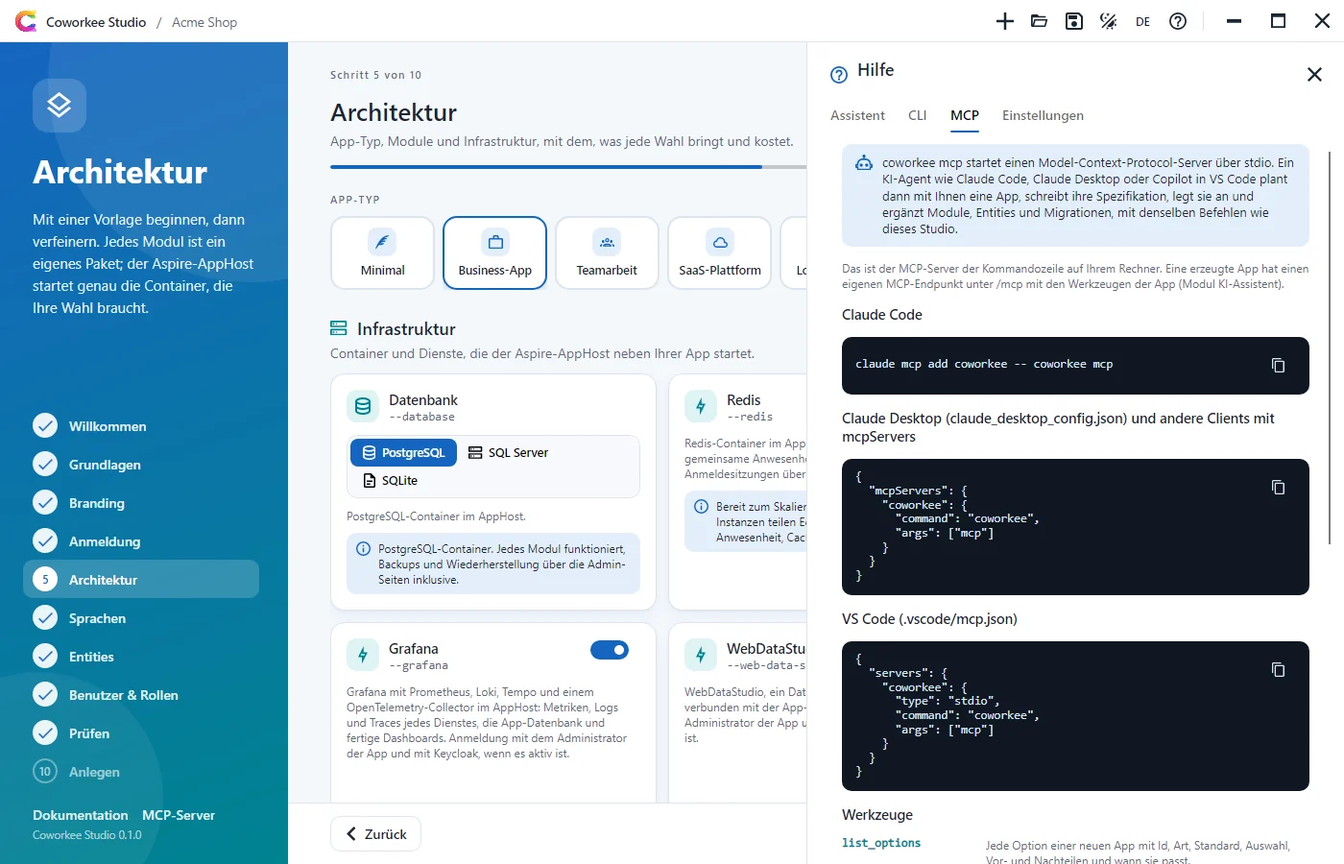
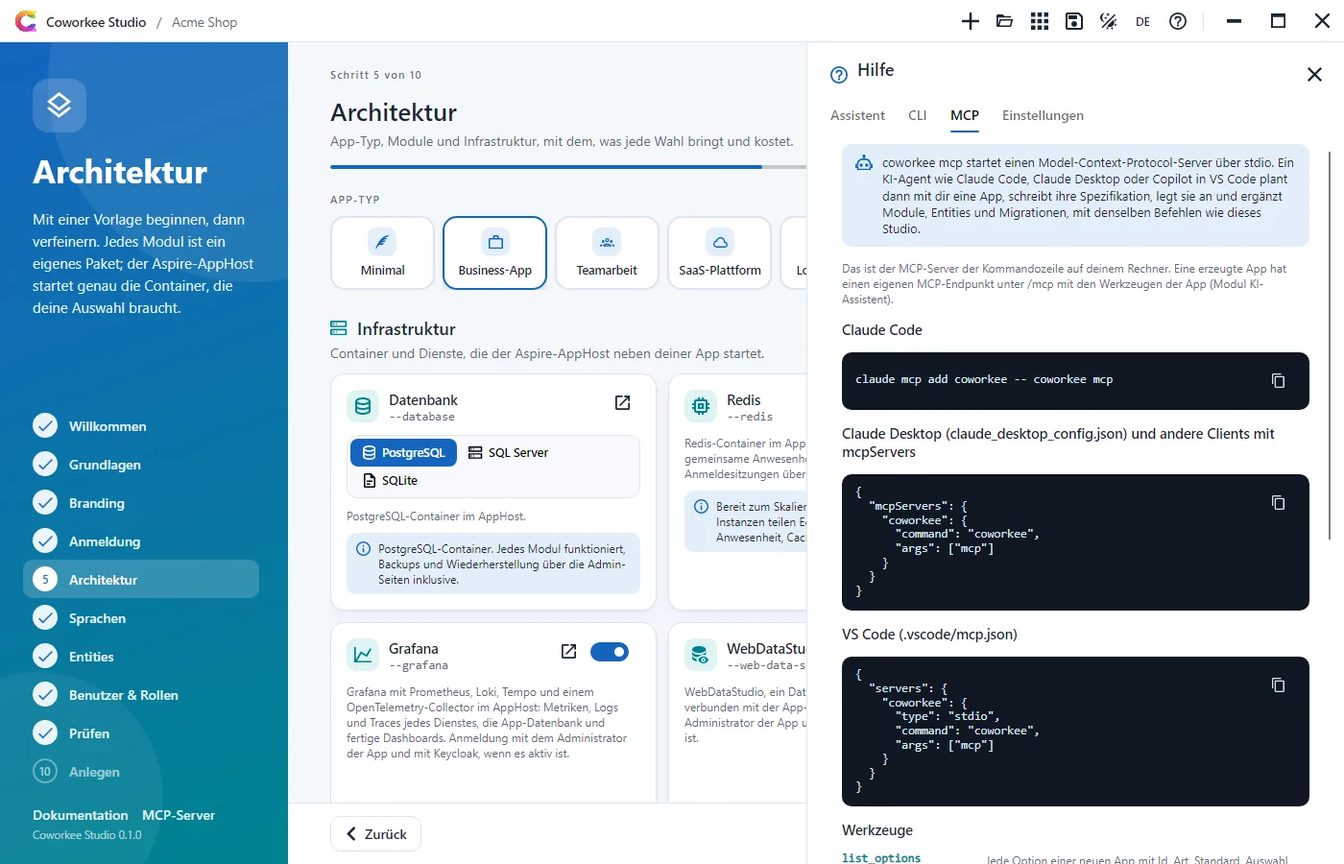
fix(studio): German texts say du; German screenshots regenerated

diff --git a/src/Coworkee.Studio/Localization/German.cs b/src/Coworkee.Studio/Localization/German.cs
@@ -31,10 +31,10 @@ public static class German
         ["Read the options of {0} from its files"] = "Optionen von {0} aus den Dateien gelesen",
         ["Show the changes"] = "Änderungen anzeigen",
         ["Apply the changes"] = "Änderungen übernehmen",
-        ["Updating your app"] = "Ihre App wird aktualisiert",
-        ["Your app is updated"] = "Ihre App ist aktualisiert",
+        ["Updating your app"] = "Deine App wird aktualisiert",
+        ["Your app is updated"] = "Deine App ist aktualisiert",
         ["Check the plan, then apply it"] = "Plan prüfen, dann übernehmen",
-        ["Some changes did not merge into your files. Merge each .rej file into the file next to it, then delete it:"] = "Einige Änderungen ließen sich nicht in Ihre Dateien mischen. Übernehmen Sie jede .rej-Datei in die Datei daneben und löschen Sie sie dann:",
+        ["Some changes did not merge into your files. Merge each .rej file into the file next to it, then delete it:"] = "Einige Änderungen ließen sich nicht in deine Dateien mischen. Übernimm jede .rej-Datei in die Datei daneben und lösche sie dann:",
         ["Opened {0}"] = "{0} geöffnet",
         ["Cannot open {0}: {1}"] = "{0} lässt sich nicht öffnen: {1}",
         ["Saved {0}"] = "{0} gespeichert",
@@ -47,32 +47,32 @@ public static class German
         // steps
         ["Welcome"] = "Willkommen",
         ["Configure a Coworkee app, see what every choice brings, and let the CLI create it."] = "Eine Coworkee-App konfigurieren, sehen, was jede Entscheidung bringt, und sie von der CLI anlegen lassen.",
-        ["Business apps without the boilerplate. Identity, permissions, an auth server, a Blazor shell, data tables, theming and an Aspire app host come as packages; your app only holds its own domain."] = "Geschäftsanwendungen ohne das Drumherum. Identity, Berechtigungen, Auth-Server, Blazor-Oberfläche, Datentabellen, Themes und ein Aspire-AppHost kommen als Pakete; Ihre App enthält nur ihre Fachlichkeit.",
+        ["Business apps without the boilerplate. Identity, permissions, an auth server, a Blazor shell, data tables, theming and an Aspire app host come as packages; your app only holds its own domain."] = "Geschäftsanwendungen ohne das Drumherum. Identity, Berechtigungen, Auth-Server, Blazor-Oberfläche, Datentabellen, Themes und ein Aspire-AppHost kommen als Pakete; deine App enthält nur ihre Fachlichkeit.",
         ["Basics"] = "Grundlagen",
         ["Name, title and where the solution goes."] = "Name, Titel und wohin die Solution kommt.",
-        ["The name becomes the prefix of every project and namespace, the title is what your users read in the browser, the app bar and on the sign-in pages."] = "Der Name wird Präfix jedes Projekts und Namespaces, den Titel lesen Ihre Benutzer im Browser, in der App-Leiste und auf den Anmeldeseiten.",
+        ["The name becomes the prefix of every project and namespace, the title is what your users read in the browser, the app bar and on the sign-in pages."] = "Der Name wird Präfix jedes Projekts und Namespaces, den Titel lesen deine Benutzer im Browser, in der App-Leiste und auf den Anmeldeseiten.",
         ["Branding"] = "Branding",
         ["Logo, theme and brand colors, previewed in light and dark."] = "Logo, Theme und Markenfarben, mit Vorschau in hell und dunkel.",
-        ["Seven built-in themes differ in more than colors: fonts, corner radius and density. With brand colors your app gets its own theme, based on the one you pick, as the default."] = "Sieben eingebaute Themes unterscheiden sich in mehr als Farben: Schrift, Eckenradius und Dichte. Mit Markenfarben bekommt Ihre App ein eigenes Theme auf Basis des gewählten als Standard.",
+        ["Seven built-in themes differ in more than colors: fonts, corner radius and density. With brand colors your app gets its own theme, based on the one you pick, as the default."] = "Sieben eingebaute Themes unterscheiden sich in mehr als Farben: Schrift, Eckenradius und Dichte. Mit Markenfarben bekommt deine App ein eigenes Theme auf Basis des gewählten als Standard.",
         ["Sign-in"] = "Anmeldung",
         ["How the sign-in, registration and password pages look."] = "Wie Anmeldung, Registrierung und Passwortseiten aussehen.",
-        ["The auth server brings sign-in, step-by-step registration, password reset and external logins. Pick a design now; administrators can switch it later on the Themes page."] = "Der Auth-Server bringt Anmeldung, Registrierung in Schritten, Passwort vergessen und externe Logins mit. Wählen Sie jetzt ein Design; Administratoren wechseln es später auf der Themes-Seite.",
+        ["The auth server brings sign-in, step-by-step registration, password reset and external logins. Pick a design now; administrators can switch it later on the Themes page."] = "Der Auth-Server bringt Anmeldung, Registrierung in Schritten, Passwort vergessen und externe Logins mit. Wähl jetzt ein Design; Administratoren wechseln es später auf der Themes-Seite.",
         ["Architecture"] = "Architektur",
         ["App type, modules and infrastructure, with what each choice brings and costs."] = "App-Typ, Module und Infrastruktur, mit dem, was jede Wahl bringt und kostet.",
-        ["Start from a preset, then fine-tune. Every module is a package of its own; the Aspire app host starts exactly the containers your choices need."] = "Mit einer Vorlage beginnen, dann verfeinern. Jedes Modul ist ein eigenes Paket; der Aspire-AppHost startet genau die Container, die Ihre Wahl braucht.",
+        ["Start from a preset, then fine-tune. Every module is a package of its own; the Aspire app host starts exactly the containers your choices need."] = "Mit einer Vorlage beginnen, dann verfeinern. Jedes Modul ist ein eigenes Paket; der Aspire-AppHost startet genau die Container, die deine Auswahl braucht.",
         ["Entities"] = "Entities",
         ["Feature modules with their entities; the CLI generates table, API, permissions and a page for each."] = "Feature-Module mit ihren Entities; die CLI erzeugt für jede Tabelle, API, Berechtigungen und eine Seite.",
-        ["Describe your domain now and start with working pages: every entity gets a table, an OData set, endpoints, validation, permissions and a Blazor page with create, edit and delete."] = "Beschreiben Sie Ihre Fachlichkeit jetzt und starten Sie mit fertigen Seiten: jede Entity bekommt Tabelle, OData-Set, Endpunkte, Validierung, Berechtigungen und eine Blazor-Seite mit Anlegen, Bearbeiten und Löschen.",
+        ["Describe your domain now and start with working pages: every entity gets a table, an OData set, endpoints, validation, permissions and a Blazor page with create, edit and delete."] = "Beschreib deine Fachlichkeit jetzt und starte mit fertigen Seiten: jede Entity bekommt Tabelle, OData-Set, Endpunkte, Validierung, Berechtigungen und eine Blazor-Seite mit Anlegen, Bearbeiten und Löschen.",
         ["Review"] = "Prüfen",
         ["Everything in one place: the spec, its validation and the CLI command that creates the app."] = "Alles an einem Ort: die Spezifikation, ihre Prüfung und der CLI-Befehl, der die App anlegt.",
-        ["The spec is the same JSON the CLI and the MCP server take. Save it next to your code, share it, or create the app right away."] = "Die Spezifikation ist dasselbe JSON, das CLI und MCP-Server nehmen. Speichern Sie es neben Ihrem Code, teilen Sie es oder legen Sie die App gleich an.",
+        ["The spec is the same JSON the CLI and the MCP server take. Save it next to your code, share it, or create the app right away."] = "Die Spezifikation ist dasselbe JSON, das CLI und MCP-Server nehmen. Speicher es neben deinem Code, teil es oder leg die App gleich an.",
         ["Create"] = "Anlegen",
-        ["The CLI installs the template, creates the solution, generates your modules and restores the packages."] = "Die CLI installiert die Vorlage, legt die Solution an, erzeugt Ihre Module und stellt die Pakete wieder her.",
+        ["The CLI installs the template, creates the solution, generates your modules and restores the packages."] = "Die CLI installiert die Vorlage, legt die Solution an, erzeugt deine Module und stellt die Pakete wieder her.",
         ["This takes a minute or two. Afterwards: open the folder, open it in your IDE, or run the app with the Aspire dashboard right away."] = "Das dauert ein, zwei Minuten. Danach: Ordner öffnen, in der IDE öffnen oder die App mit dem Aspire-Dashboard gleich starten.",
 
         // welcome
         ["COWORKEE STUDIO"] = "COWORKEE STUDIO",
-        ["Create your next business app"] = "Legen Sie Ihre nächste Geschäftsanwendung an",
+        ["Create your next business app"] = "Leg deine nächste Geschäftsanwendung an",
         ["Pick name, logo and colors, choose the modules and infrastructure, describe your entities, and the Coworkee CLI creates a solution with auth server, API, Blazor client, migrations, tests and an Aspire app host."] = "Name, Logo und Farben wählen, Module und Infrastruktur aussuchen, Entities beschreiben, und die Coworkee-CLI legt eine Solution mit Auth-Server, API, Blazor-Client, Migrationen, Tests und Aspire-AppHost an.",
         ["Start the wizard with the defaults of the template."] = "Den Assistenten mit den Standards der Vorlage starten.",
         ["Open a spec"] = "Spezifikation öffnen",
@@ -84,20 +84,20 @@ public static class German
         ["Presets and every module with pros, cons and the containers it adds."] = "Vorlagen und jedes Modul mit Vor- und Nachteilen und den Containern, die es mitbringt.",
         ["Modules, entities and properties; pages, API and permissions are generated."] = "Module, Entities und Eigenschaften; Seiten, API und Berechtigungen werden erzeugt.",
         ["Validation, the spec as JSON and the equivalent CLI command."] = "Prüfung, die Spezifikation als JSON und der passende CLI-Befehl.",
-        ["The CLI creates the app; open it in your IDE or run it with Aspire."] = "Die CLI legt die App an; öffnen Sie sie in der IDE oder starten Sie sie mit Aspire.",
+        ["The CLI creates the app; open it in your IDE or run it with Aspire."] = "Die CLI legt die App an; öffne sie in der IDE oder starte sie mit Aspire.",
         ["Prefer an AI agent? coworkee mcp runs the same generator as an MCP server for Claude, Copilot and others."] = "Lieber mit einem KI-Agenten? coworkee mcp stellt denselben Generator als MCP-Server für Claude, Copilot und andere bereit.",
-        ["How to connect"] = "So verbinden Sie ihn",
+        ["How to connect"] = "So verbindest du ihn",
 
         // basics
         ["App name"] = "Name der App",
         ["Title"] = "Titel",
         ["Location"] = "Speicherort",
         ["Browse"] = "Durchsuchen",
-        ["The folder exists and is not empty. The template refuses to overwrite files; pick another name or folder."] = "Der Ordner existiert und ist nicht leer. Die Vorlage überschreibt keine Dateien; wählen Sie einen anderen Namen oder Ordner.",
+        ["The folder exists and is not empty. The template refuses to overwrite files; pick another name or folder."] = "Der Ordner existiert und ist nicht leer. Die Vorlage überschreibt keine Dateien; wähl einen anderen Namen oder Ordner.",
         ["Naming tips"] = "Tipps zur Benennung",
         ["Short and technical: Shop, Crm, Portal. It becomes Shop.Api, Shop.Web and the namespace Shop.Sales."] = "Kurz und technisch: Shop, Crm, Portal. Daraus werden Shop.Api, Shop.Web und der Namespace Shop.Sales.",
         ["The title can have spaces and brand words: Acme Shop. It shows in the browser tab, the app bar, the sign-in pages and the Aspire dashboard."] = "Der Titel darf Leerzeichen und Markennamen enthalten: Acme Shop. Er erscheint im Browser-Tab, in der App-Leiste, auf den Anmeldeseiten und im Aspire-Dashboard.",
-        ["With brand colors the title also names the theme of your app, so it cannot be the name of a built-in theme."] = "Mit Markenfarben benennt der Titel auch das Theme Ihrer App und darf daher kein eingebautes Theme heißen.",
+        ["With brand colors the title also names the theme of your app, so it cannot be the name of a built-in theme."] = "Mit Markenfarben benennt der Titel auch das Theme deiner App und darf daher kein eingebautes Theme heißen.",
         ["The same on the command line"] = "Dasselbe auf der Kommandozeile",
         ["The app needs a name."] = "Die App braucht einen Namen.",
         ["Start with a letter, then letters or digits only; no spaces, dots or dashes."] = "Mit einem Buchstaben beginnen, dann nur Buchstaben oder Ziffern; keine Leerzeichen, Punkte oder Bindestriche.",
@@ -114,7 +114,7 @@ public static class German
         ["Theme"] = "Theme",
         ["Default theme of the installation; every user can still pick another one."] = "Standard-Theme der Installation; jeder Benutzer kann trotzdem ein anderes wählen.",
         ["Brand colors"] = "Markenfarben",
-        ["Your app gets its own theme, named like the title and based on the chosen one; contrast text is computed."] = "Ihre App bekommt ein eigenes Theme, benannt wie der Titel und basierend auf dem gewählten; die Kontrastfarbe für Text wird berechnet.",
+        ["Your app gets its own theme, named like the title and based on the chosen one; contrast text is computed."] = "Deine App bekommt ein eigenes Theme, benannt wie der Titel und basierend auf dem gewählten; die Kontrastfarbe für Text wird berechnet.",
         ["Primary"] = "Primär",
         ["Secondary"] = "Sekundär",
         ["Quick picks for the primary color"] = "Schnellauswahl für die Primärfarbe",
@@ -132,7 +132,7 @@ public static class German
         ["Choose"] = "Wählen",
         ["Choose an image or video"] = "Bild oder Video wählen",
         ["Remove"] = "Entfernen",
-        ["Plays muted in a loop. Keep it short: large videos slow the first sign-in."] = "Läuft stumm in Schleife. Halten Sie es kurz: große Videos bremsen die erste Anmeldung.",
+        ["Plays muted in a loop. Keep it short: large videos slow the first sign-in."] = "Läuft stumm in Schleife. Halt es kurz: große Videos bremsen die erste Anmeldung.",
         ["Side of the media"] = "Seite des Mediums",
         ["Match the composition of your image: the form takes the other side."] = "Passend zum Bildaufbau: das Formular nimmt die andere Seite.",
         ["Loading screen"] = "Ladebildschirm",
@@ -157,9 +157,9 @@ public static class German
         ["Modules"] = "Module",
         ["Feature modules: each is a NuGet package with its pages, permissions and tables."] = "Feature-Module: jedes ist ein NuGet-Paket mit seinen Seiten, Berechtigungen und Tabellen.",
         ["Infrastructure"] = "Infrastruktur",
-        ["Containers and services the Aspire app host starts next to your app."] = "Container und Dienste, die der Aspire-AppHost neben Ihrer App startet.",
+        ["Containers and services the Aspire app host starts next to your app."] = "Container und Dienste, die der Aspire-AppHost neben deiner App startet.",
         ["Code"] = "Code",
-        ["How the CLI generates the code of your entities."] = "Wie die CLI den Code Ihrer Entities erzeugt.",
+        ["How the CLI generates the code of your entities."] = "Wie die CLI den Code deiner Entities erzeugt.",
         ["Minimal"] = "Minimal",
         ["The shell with identity, permissions, settings and theming on Postgres. No Redis: fine while one instance runs. Add modules later."] = "Die Oberfläche mit Identity, Berechtigungen, Einstellungen und Themes auf Postgres. Ohne Redis: reicht, solange eine Instanz läuft. Module kommen später dazu.",
         ["Business app"] = "Business-App",
@@ -201,7 +201,7 @@ public static class German
         ["Remove module"] = "Modul entfernen",
         ["Entity"] = "Entity",
         ["No entities yet"] = "Noch keine Entities",
-        ["Optional: the app works without them. Add a module like Sales with entities like Customer and Order, and each gets its table, API, permissions and page."] = "Optional: die App funktioniert auch ohne. Fügen Sie ein Modul wie Sales mit Entities wie Customer und Order hinzu, und jede bekommt Tabelle, API, Berechtigungen und Seite.",
+        ["Optional: the app works without them. Add a module like Sales with entities like Customer and Order, and each gets its table, API, permissions and page."] = "Optional: die App funktioniert auch ohne. Füg ein Modul wie Sales mit Entities wie Customer und Order hinzu, und jede bekommt Tabelle, API, Berechtigungen und Seite.",
         ["Add a module"] = "Modul hinzufügen",
         ["Use the example"] = "Beispiel verwenden",
         ["Entity name (singular)"] = "Name der Entity (Singular)",
@@ -221,7 +221,7 @@ public static class German
         ["Remove property"] = "Eigenschaft entfernen",
         ["Remove entity"] = "Entity entfernen",
         ["GENERATED FOR THIS ENTITY"] = "FÜR DIESE ENTITY ERZEUGT",
-        ["Select an entity to see its routes, permissions and files."] = "Wählen Sie eine Entity, um Routen, Berechtigungen und Dateien zu sehen.",
+        ["Select an entity to see its routes, permissions and files."] = "Wähl eine Entity, um Routen, Berechtigungen und Dateien zu sehen.",
         ["Page"] = "Seite",
         ["API and OData"] = "API und OData",
         ["Permissions"] = "Berechtigungen",
@@ -262,7 +262,7 @@ public static class German
 
         // review
         ["The spec is valid"] = "Die Spezifikation ist gültig",
-        ["Checked with the same rules the CLI uses. Create the app or save the spec for later."] = "Geprüft mit denselben Regeln wie in der CLI. Legen Sie die App an oder speichern Sie die Spezifikation für später.",
+        ["Checked with the same rules the CLI uses. Create the app or save the spec for later."] = "Geprüft mit denselben Regeln wie in der CLI. Leg die App an oder speicher die Spezifikation für später.",
         ["Summary"] = "Zusammenfassung",
         ["Folder"] = "Ordner",
         ["Event bus"] = "Event-Bus",
@@ -279,14 +279,14 @@ public static class German
         // create
         ["Cancel"] = "Abbrechen",
         ["Run again"] = "Erneut ausführen",
-        ["Creating your app"] = "Ihre App wird angelegt",
-        ["Your app is ready"] = "Ihre App ist fertig",
+        ["Creating your app"] = "Deine App wird angelegt",
+        ["Your app is ready"] = "Deine App ist fertig",
         ["The spec has problems"] = "Die Spezifikation hat Probleme",
         ["The coworkee CLI was not found"] = "Die coworkee-CLI wurde nicht gefunden",
         ["Canceled"] = "Abgebrochen",
         ["Something went wrong"] = "Etwas ist schiefgegangen",
         ["Install the coworkee CLI"] = "coworkee-CLI installieren",
-        ["The Studio creates apps through the coworkee command line tool, a global .NET tool. Install it with one click, or point the Studio to a local build (coworkee.exe or Coworkee.Cli.dll)."] = "Das Studio legt Apps über das Kommandozeilen-Tool coworkee an, ein globales .NET-Tool. Installieren Sie es mit einem Klick oder zeigen Sie dem Studio einen lokalen Build (coworkee.exe oder Coworkee.Cli.dll).",
+        ["The Studio creates apps through the coworkee command line tool, a global .NET tool. Install it with one click, or point the Studio to a local build (coworkee.exe or Coworkee.Cli.dll)."] = "Das Studio legt Apps über das Kommandozeilen-Tool coworkee an, ein globales .NET-Tool. Installier es mit einem Klick oder zeig dem Studio einen lokalen Build (coworkee.exe oder Coworkee.Cli.dll).",
         ["Install and continue"] = "Installieren und weiter",
         ["Choose a local CLI"] = "Lokale CLI wählen",
         ["Settings"] = "Einstellungen",
@@ -304,14 +304,14 @@ public static class German
         ["Help"] = "Hilfe",
         ["Close (F1)"] = "Schließen (F1)",
         ["Wizard"] = "Assistent",
-        ["Coworkee Studio writes an app spec, the JSON the coworkee CLI takes, and lets the CLI create the app. Every page changes one part of the spec; the panel on the left shows where you are and takes you back to any page you have seen."] = "Coworkee Studio schreibt eine App-Spezifikation, das JSON der coworkee-CLI, und lässt die CLI die App anlegen. Jede Seite ändert einen Teil der Spezifikation; das Panel links zeigt, wo Sie sind, und führt zu jeder Seite zurück, die Sie schon gesehen haben.",
+        ["Coworkee Studio writes an app spec, the JSON the coworkee CLI takes, and lets the CLI create the app. Every page changes one part of the spec; the panel on the left shows where you are and takes you back to any page you have seen."] = "Coworkee Studio schreibt eine App-Spezifikation, das JSON der coworkee-CLI, und lässt die CLI die App anlegen. Jede Seite ändert einen Teil der Spezifikation; das Panel links zeigt, wo du bist, und führt zu jeder Seite zurück, die du schon gesehen hast.",
         ["Keyboard"] = "Tastatur",
         ["Start options"] = "Startoptionen",
         ["Coworkee Studio in the documentation"] = "Coworkee Studio in der Dokumentation",
         ["The Studio runs coworkee spec validate and coworkee new --spec. Everything it does works in a terminal as well:"] = "Das Studio ruft coworkee spec validate und coworkee new --spec auf. Alles, was es tut, geht auch im Terminal:",
         ["All commands and switches"] = "Alle Befehle und Schalter",
-        ["coworkee mcp runs a Model Context Protocol server over stdio. An AI agent such as Claude Code, Claude Desktop or Copilot in VS Code can then plan an app with you, write its spec, create it and add modules, entities and migrations, with the same commands as this Studio."] = "coworkee mcp startet einen Model-Context-Protocol-Server über stdio. Ein KI-Agent wie Claude Code, Claude Desktop oder Copilot in VS Code plant dann mit Ihnen eine App, schreibt ihre Spezifikation, legt sie an und ergänzt Module, Entities und Migrationen, mit denselben Befehlen wie dieses Studio.",
-        ["This is the MCP server of the command line on your machine. A generated app has its own MCP endpoint under /mcp with the tools of the app (AI assistant module)."] = "Das ist der MCP-Server der Kommandozeile auf Ihrem Rechner. Eine erzeugte App hat einen eigenen MCP-Endpunkt unter /mcp mit den Werkzeugen der App (Modul KI-Assistent).",
+        ["coworkee mcp runs a Model Context Protocol server over stdio. An AI agent such as Claude Code, Claude Desktop or Copilot in VS Code can then plan an app with you, write its spec, create it and add modules, entities and migrations, with the same commands as this Studio."] = "coworkee mcp startet einen Model-Context-Protocol-Server über stdio. Ein KI-Agent wie Claude Code, Claude Desktop oder Copilot in VS Code plant dann mit dir eine App, schreibt ihre Spezifikation, legt sie an und ergänzt Module, Entities und Migrationen, mit denselben Befehlen wie dieses Studio.",
+        ["This is the MCP server of the command line on your machine. A generated app has its own MCP endpoint under /mcp with the tools of the app (AI assistant module)."] = "Das ist der MCP-Server der Kommandozeile auf deinem Rechner. Eine erzeugte App hat einen eigenen MCP-Endpunkt unter /mcp mit den Werkzeugen der App (Modul KI-Assistent).",
         ["Claude Desktop (claude_desktop_config.json) and other clients with mcpServers"] = "Claude Desktop (claude_desktop_config.json) und andere Clients mit mcpServers",
         ["Tools"] = "Werkzeuge",
         ["Try it"] = "Ausprobieren",
@@ -373,7 +373,7 @@ public static class German
         ["To learn the patterns or to demo the library; switch off for a real app."] = "Zum Lernen der Muster oder für Demos; für eine echte App ausschalten.",
         ["Working examples of every pattern"] = "Lauffähige Beispiele für jedes Muster",
         ["Demo data after the first start"] = "Demodaten nach dem ersten Start",
-        ["Code you delete later"] = "Code, den Sie später löschen",
+        ["Code you delete later"] = "Code, den du später löschst",
         ["Test projects"] = "Testprojekte",
         ["API, migration, app host and page tests."] = "Tests für API, Migrationen, AppHost und Seiten.",
         ["Almost always; leave out only for throw-away prototypes."] = "Fast immer; nur bei Wegwerf-Prototypen weglassen.",
@@ -468,7 +468,7 @@ public static class German
         ["Elsa Studio is a separate app to run"] = "Elsa Studio ist eine eigene App, die laufen muss",
         ["Extended attributes"] = "Erweiterte Attribute",
         ["Free key/value attributes for any entity without schema changes (the Documents sample brings it anyway)."] = "Freie Schlüssel-Wert-Attribute für jede Entity ohne Schemaänderung (das Documents-Beispiel bringt es ohnehin mit).",
-        ["When users need fields you cannot foresee."] = "Wenn Benutzer Felder brauchen, die Sie nicht vorhersehen können.",
+        ["When users need fields you cannot foresee."] = "Wenn Benutzer Felder brauchen, die du nicht vorhersehen kannst.",
         ["No migration per field"] = "Keine Migration pro Feld",
         ["Values are not typed columns"] = "Werte sind keine typisierten Spalten",
         ["Search"] = "Suche",
@@ -506,7 +506,7 @@ public static class German
         ["Azure Blob Storage, Azurite emulator in the app host."] = "Azure Blob Storage, Azurite-Emulator im AppHost.",
         ["AI provider"] = "KI-Anbieter",
         ["Model provider of the assistant (with the AI assistant); changeable later on the AI page of the app."] = "Modellanbieter des Assistenten (mit dem KI-Assistenten); später auf der KI-Seite der App änderbar.",
-        ["Anthropic, OpenAI, Gemini or Mistral with a key; OpenRouter for many models behind one key; Ollama or LM Studio to run locally without a key; Azure OpenAI when data must stay in your Azure tenant; openAICompatible for gateways and vLLM."] = "Anthropic, OpenAI, Gemini oder Mistral mit Schlüssel; OpenRouter für viele Modelle hinter einem Schlüssel; Ollama oder LM Studio lokal ohne Schlüssel; Azure OpenAI, wenn Daten in Ihrem Azure-Mandanten bleiben müssen; openAICompatible für Gateways und vLLM.",
+        ["Anthropic, OpenAI, Gemini or Mistral with a key; OpenRouter for many models behind one key; Ollama or LM Studio to run locally without a key; Azure OpenAI when data must stay in your Azure tenant; openAICompatible for gateways and vLLM."] = "Anthropic, OpenAI, Gemini oder Mistral mit Schlüssel; OpenRouter für viele Modelle hinter einem Schlüssel; Ollama oder LM Studio lokal ohne Schlüssel; Azure OpenAI, wenn Daten in deinem Azure-Mandanten bleiben müssen; openAICompatible für Gateways und vLLM.",
         ["Same tools and audit with every provider"] = "Dieselben Werkzeuge und dasselbe Audit mit jedem Anbieter",
         ["Ollama runs offline in a container"] = "Ollama läuft offline in einem Container",
         ["Small local models call tools less reliably"] = "Kleine lokale Modelle rufen Werkzeuge weniger zuverlässig auf",
@@ -520,7 +520,7 @@ public static class German
         ["Without it everything stays in each process, fine for a single instance"] = "Ohne Redis bleibt alles im jeweiligen Prozess, ausreichend für eine einzelne Instanz",
         ["Grafana"] = "Grafana",
         ["Grafana with Prometheus, Loki, Tempo and an OpenTelemetry collector in the app host: metrics, logs and traces of every service, the app database and ready dashboards. Sign-in with the app's administrator, and Keycloak when it is on."] = "Grafana mit Prometheus, Loki, Tempo und einem OpenTelemetry-Collector im AppHost: Metriken, Logs und Traces jedes Dienstes, die App-Datenbank und fertige Dashboards. Anmeldung mit dem Administrator der App und mit Keycloak, wenn es aktiv ist.",
-        ["Whenever you want to see how the app behaves: request rates, errors, latency, runtime, database and users at a glance."] = "Immer dann, wenn Sie sehen wollen, wie sich die App verhält: Anfragen, Fehler, Latenz, Laufzeit, Datenbank und Benutzer auf einen Blick.",
+        ["Whenever you want to see how the app behaves: request rates, errors, latency, runtime, database and users at a glance."] = "Immer dann, wenn du sehen willst, wie sich die App verhält: Anfragen, Fehler, Latenz, Laufzeit, Datenbank und Benutzer auf einen Blick.",
         ["Dashboards for requests, runtime, database and the app's data from the first start"] = "Dashboards für Anfragen, Laufzeit, Datenbank und die Daten der App ab dem ersten Start",
         ["Metrics, logs and traces side by side and kept across sessions of the Aspire dashboard"] = "Metriken, Logs und Traces nebeneinander und über Sitzungen des Aspire-Dashboards hinweg erhalten",
         ["Same sign-in as the app"] = "Dieselbe Anmeldung wie in der App",
@@ -528,7 +528,7 @@ public static class German
         ["Development only: a deployment brings its own monitoring"] = "Nur für die Entwicklung: ein Deployment bringt sein eigenes Monitoring mit",
         ["WebDataStudio"] = "WebDataStudio",
         ["WebDataStudio, a database studio in the browser, connected to the app database. Sign-in with the app's administrator, and Keycloak when it is on."] = "WebDataStudio, ein Datenbank-Studio im Browser, verbunden mit der App-Datenbank. Anmeldung mit dem Administrator der App und mit Keycloak, wenn es aktiv ist.",
-        ["Whenever you want to look into the app database, run SQL or fix data while developing."] = "Immer dann, wenn Sie während der Entwicklung in die App-Datenbank schauen, SQL ausführen oder Daten korrigieren wollen.",
+        ["Whenever you want to look into the app database, run SQL or fix data while developing."] = "Immer dann, wenn du während der Entwicklung in die App-Datenbank schauen, SQL ausführen oder Daten korrigieren willst.",
         ["Tables, queries, charts and exports without a local database tool"] = "Tabellen, Abfragen, Diagramme und Exporte ohne lokales Datenbankwerkzeug",
         ["Development only: it has full access to the database"] = "Nur für die Entwicklung: es hat vollen Zugriff auf die Datenbank",
         ["AspireUI"] = "AspireUI",
@@ -554,7 +554,7 @@ public static class German
         ["When the app should be tried next to other apps or stacks (a second service, a database tool, a sample), or the Services page should list them."] = "Wenn die App neben anderen Apps oder Stacks ausprobiert werden soll (ein zweiter Dienst, ein Datenbankwerkzeug, ein Beispiel) oder die Seite Dienste sie auflisten soll.",
         ["Start and stop more apps and stacks from one web UI"] = "Weitere Apps und Stacks in einer Web-Oberfläche starten und stoppen",
         ["The hosted apps show up on the admin page Services"] = "Die gehosteten Apps erscheinen auf der Admin-Seite Dienste",
-        ["Development only: it hosts whatever you give it"] = "Nur für die Entwicklung: es hostet alles, was Sie ihm geben",
+        ["Development only: it hosts whatever you give it"] = "Nur für die Entwicklung: es hostet alles, was du ihm gibst",
         ["Database"] = "Datenbank",
         ["Database engine of the app; the app host starts it and the initial migration is made for it."] = "Datenbank-Engine der App; der AppHost startet sie, und die erste Migration ist für sie erstellt.",
         ["Postgres unless the organisation runs SQL Server (or Azure SQL); SQLite for demos, prototypes and installs on one machine."] = "Postgres, außer die Organisation betreibt SQL Server (oder Azure SQL); SQLite für Demos, Prototypen und Installationen auf einem Rechner.",
@@ -567,7 +567,7 @@ public static class German
         ["SQL Server container in the app host."] = "SQL-Server-Container im AppHost.",
         ["SQLite file .data/<name>.db, no container."] = "SQLite-Datei .data/<name>.db, kein Container.",
         ["Default theme of the installation."] = "Standard-Theme der Installation.",
-        ["Pick the look closest to your brand; brand colors adjust it."] = "Wählen Sie den Look, der Ihrer Marke am nächsten ist; Markenfarben passen ihn an.",
+        ["Pick the look closest to your brand; brand colors adjust it."] = "Wähl den Look, der deiner Marke am nächsten ist; Markenfarben passen ihn an.",
         ["Seven themes that differ in more than colors"] = "Sieben Themes, die sich in mehr als Farben unterscheiden",
         ["Organisations can still choose another"] = "Organisationen können trotzdem ein anderes wählen",
         ["Blue, humanist font, rounded."] = "Blau, humanistische Schrift, abgerundet.",
@@ -625,7 +625,7 @@ public static class German
         ["When the users speak only some of the languages, or languages other than English and German."] = "Wenn die Benutzer nur einige der Sprachen sprechen oder andere Sprachen als Englisch und Deutsch.",
         ["Users see only languages that make sense"] = "Benutzer sehen nur sinnvolle Sprachen",
         ["Any language the translation service knows"] = "Jede Sprache, die der Übersetzungsdienst kennt",
-        ["Machine translations are good, not perfect: review them on the Translations page"] = "Maschinelle Übersetzungen sind gut, nicht perfekt: prüfen Sie sie auf der Seite Übersetzungen",
+        ["Machine translations are good, not perfect: review them on the Translations page"] = "Maschinelle Übersetzungen sind gut, nicht perfekt: prüf sie auf der Seite Übersetzungen",
         ["English"] = "Englisch",
         ["Default language"] = "Standardsprache",
         ["Language of users who chose none and whose browser asks for none of the offered ones."] = "Sprache der Benutzer, die keine gewählt haben und deren Browser keine der angebotenen verlangt.",
@@ -635,7 +635,7 @@ public static class German
         ["Translation service"] = "Übersetzungsdienst",
         ["Translates the texts a language lacks: at the first start, when a language is switched on, or on request. Changeable later in the settings (Translation)."] = "Übersetzt die Texte, die einer Sprache fehlen: beim ersten Start, beim Einschalten einer Sprache oder auf Wunsch. Später in den Einstellungen (Übersetzung) änderbar.",
         ["LibreTranslate to start free and without an account, DeepL or Azure for the best quality, AI when the assistant's model should do it."] = "LibreTranslate für den kostenlosen Start ohne Konto, DeepL oder Azure für die beste Qualität, KI, wenn das Modell des Assistenten übersetzen soll.",
-        ["libreTranslate: free, no account, the texts stay on your machine"] = "libreTranslate: kostenlos, ohne Konto, die Texte bleiben auf Ihrem Rechner",
+        ["libreTranslate: free, no account, the texts stay on your machine"] = "libreTranslate: kostenlos, ohne Konto, die Texte bleiben auf deinem Rechner",
         ["myMemory: free, no container, nothing to install"] = "myMemory: kostenlos, kein Container, nichts zu installieren",
         ["deepL, azure, google: high quality, free monthly quota with an account"] = "deepL, azure, google: hohe Qualität, kostenloses Monatskontingent mit Konto",
         ["libreTranslate: a container of about 600 MB plus about 100 MB per language, the first start waits for the download"] = "libreTranslate: ein Container von etwa 600 MB plus etwa 100 MB je Sprache, der erste Start wartet auf den Download",
@@ -650,8 +650,8 @@ public static class German
         ["No machine translation; missing texts show in English."] = "Keine maschinelle Übersetzung; fehlende Texte erscheinen auf Englisch.",
         ["Translation source"] = "Ausgangssprache der Übersetzung",
         ["The language translations start from. Texts are written in English; German starts from the shipped German wording where there is one."] = "Die Sprache, von der aus übersetzt wird. Texte sind auf Englisch geschrieben; Deutsch geht vom mitgelieferten deutschen Wortlaut aus, wo es einen gibt.",
-        ["German when your own texts are reviewed in German first."] = "Deutsch, wenn Ihre eigenen Texte zuerst auf Deutsch geprüft werden.",
-        ["Translations from your reviewed wording"] = "Übersetzungen aus Ihrem geprüften Wortlaut",
+        ["German when your own texts are reviewed in German first."] = "Deutsch, wenn deine eigenen Texte zuerst auf Deutsch geprüft werden.",
+        ["Translations from your reviewed wording"] = "Übersetzungen aus deinem geprüften Wortlaut",
         ["Only languages with shipped texts"] = "Nur Sprachen mit mitgelieferten Texten",
 
         // languages step
@@ -671,7 +671,7 @@ public static class German
         ["Uses provider, model and key of the AI assistant."] = "Nutzt Anbieter, Modell und Schlüssel des KI-Assistenten.",
         ["Languages without shipped texts show English until someone translates them on the Translations page."] = "Sprachen ohne mitgelieferte Texte zeigen Englisch, bis jemand sie auf der Seite Übersetzungen übersetzt.",
         ["Free, no account"] = "Kostenlos, ohne Konto",
-        ["Texts stay on your machine"] = "Texte bleiben auf Ihrem Rechner",
+        ["Texts stay on your machine"] = "Texte bleiben auf deinem Rechner",
         ["Works offline after the download"] = "Läuft nach dem Download offline",
         ["About 600 MB container plus about 100 MB per language"] = "Container von etwa 600 MB plus etwa 100 MB je Sprache",
         ["Good, not the best quality"] = "Gute, nicht die beste Qualität",
@@ -725,7 +725,7 @@ public static class German
         ["The Keycloak button on the sign-in page takes the same users and passwords."] = "Der Keycloak-Knopf auf der Anmeldeseite nimmt dieselben Benutzer und Passwörter.",
         ["{0} in the Aspire dashboard take {1} too."] = "{0} im Aspire-Dashboard nehmen {1} ebenfalls.",
         ["{0} in the Aspire dashboard take {1} and the Keycloak button too."] = "{0} im Aspire-Dashboard nehmen {1} und den Keycloak-Knopf ebenfalls.",
-        ["Development passwords only, also in LOGIN.md of the solution; change them before you deploy."] = "Passwörter nur für die Entwicklung, auch in LOGIN.md der Solution; ändern Sie sie vor dem Deployment.",
+        ["Development passwords only, also in LOGIN.md of the solution; change them before you deploy."] = "Passwörter nur für die Entwicklung, auch in LOGIN.md der Solution; änder sie vor dem Deployment.",
         ["Users"] = "Benutzer",
         ["User"] = "Benutzer",
         ["Administrator with every permission, always seeded; its password is generated."] = "Administrator mit allen Berechtigungen, immer angelegt; sein Passwort wird erzeugt.",
@@ -741,26 +741,26 @@ public static class German
         ["Built-in roles of the template"] = "Eingebaute Rollen der Vorlage",
         ["Description"] = "Beschreibung",
         ["Remove role"] = "Rolle entfernen",
-        ["Run the app, open {0} in the Aspire dashboard and sign in with:"] = "Starten Sie die App, öffnen Sie {0} im Aspire-Dashboard und melden Sie sich an mit:",
+        ["Run the app, open {0} in the Aspire dashboard and sign in with:"] = "Starte die App, öffne {0} im Aspire-Dashboard und melde dich an mit:",
         ["Users & roles"] = "Benutzer & Rollen",
         ["Who can sign in right after the first start, and what they may do."] = "Wer sich gleich nach dem ersten Start anmelden kann und was er darf.",
-        ["Every user gets an account with its password, generated unless you set one; with Keycloak the realm gets the same users and passwords. Roles bundle permissions of the chosen modules and of your entities."] = "Jeder Benutzer bekommt ein Konto mit seinem Passwort, erzeugt, wenn Sie keines angeben; mit Keycloak bekommt der Realm dieselben Benutzer und Passwörter. Rollen bündeln Berechtigungen der gewählten Module und Ihrer Entities.",
+        ["Every user gets an account with its password, generated unless you set one; with Keycloak the realm gets the same users and passwords. Roles bundle permissions of the chosen modules and of your entities."] = "Jeder Benutzer bekommt ein Konto mit seinem Passwort, erzeugt, wenn du keines angibst; mit Keycloak bekommt der Realm dieselben Benutzer und Passwörter. Rollen bündeln Berechtigungen der gewählten Module und deiner Entities.",
         ["{0} roles · {1} users"] = "{0} Rollen · {1} Benutzer",
         ["Editor"] = "Redakteur",
 
         // AI provider, model, endpoint and key
         ["Claude models; strong at tool use. Pay per use."] = "Claude-Modelle; stark bei Werkzeugen. Bezahlung nach Nutzung.",
         ["GPT models (ChatGPT). Pay per use."] = "GPT-Modelle (ChatGPT). Bezahlung nach Nutzung.",
-        ["OpenAI models in your Azure tenant. Endpoint: https://<resource>.openai.azure.com, model: the deployment name."] = "OpenAI-Modelle in Ihrem Azure-Tenant. Endpunkt: https://<ressource>.openai.azure.com, Modell: der Name des Deployments.",
+        ["OpenAI models in your Azure tenant. Endpoint: https://<resource>.openai.azure.com, model: the deployment name."] = "OpenAI-Modelle in deinem Azure-Tenant. Endpunkt: https://<ressource>.openai.azure.com, Modell: der Name des Deployments.",
         ["Gemini through Google's OpenAI compatible API. Free tier with rate limits."] = "Gemini über Googles OpenAI-kompatible API. Gratis-Kontingent mit Ratenlimits.",
-        ["Hundreds of models behind one key; models ending in :free cost nothing. Optional headers HTTP-Referer and X-Title name your app."] = "Hunderte Modelle hinter einem Schlüssel; Modelle mit :free am Ende kosten nichts. Die optionalen Header HTTP-Referer und X-Title nennen Ihre App.",
+        ["Hundreds of models behind one key; models ending in :free cost nothing. Optional headers HTTP-Referer and X-Title name your app."] = "Hunderte Modelle hinter einem Schlüssel; Modelle mit :free am Ende kosten nichts. Die optionalen Header HTTP-Referer und X-Title nennen deine App.",
         ["European provider, hosted in the EU. Free experiment plan."] = "Europäischer Anbieter, gehostet in der EU. Kostenloser Experiment-Plan.",
         ["Open models at very high speed. Free tier with rate limits."] = "Offene Modelle mit sehr hoher Geschwindigkeit. Gratis-Kontingent mit Ratenlimits.",
         ["Low prices; servers in China."] = "Niedrige Preise; Server in China.",
         ["Grok models. Pay per use."] = "Grok-Modelle. Bezahlung nach Nutzung.",
         ["Open models in the cloud. Pay per use."] = "Offene Modelle in der Cloud. Bezahlung nach Nutzung.",
-        ["Local models, no key and no data leaves your machine. Small models call tools less reliably."] = "Lokale Modelle, kein Schlüssel, keine Daten verlassen Ihren Rechner. Kleine Modelle rufen Werkzeuge weniger zuverlässig auf.",
-        ["Local models from the LM Studio app; start its server and load a model. No key, nothing leaves your machine."] = "Lokale Modelle aus der App LM Studio; Server starten und ein Modell laden. Kein Schlüssel, nichts verlässt Ihren Rechner.",
+        ["Local models, no key and no data leaves your machine. Small models call tools less reliably."] = "Lokale Modelle, kein Schlüssel, keine Daten verlassen deinen Rechner. Kleine Modelle rufen Werkzeuge weniger zuverlässig auf.",
+        ["Local models from the LM Studio app; start its server and load a model. No key, nothing leaves your machine."] = "Lokale Modelle aus der App LM Studio; Server starten und ein Modell laden. Kein Schlüssel, nichts verlässt deinen Rechner.",
         ["Any server that speaks the OpenAI chat API: a gateway, vLLM, LiteLLM, a company proxy. Base address, key, model and headers as it needs."] = "Jeder Server, der die OpenAI-Chat-API spricht: ein Gateway, vLLM, LiteLLM, ein Firmen-Proxy. Basisadresse, Schlüssel, Modell und Header, wie er sie braucht.",
         ["AI model"] = "KI-Modell",
         ["Model of the AI provider (Azure OpenAI: the deployment name); empty takes the provider's default. The key never goes into the spec: user secrets of the app host, Parameters:ai-apikey."] = "Modell des KI-Anbieters (Azure OpenAI: der Deployment-Name); leer nimmt den Standard des Anbieters. Der Schlüssel kommt nie in die Spezifikation: User Secrets des AppHosts, Parameters:ai-apikey.",
@@ -827,12 +827,12 @@ public static class German
         ["From a database, an OpenAPI document or a CSV file, with a preview."] = "Aus einer Datenbank, einem OpenAPI-Dokument oder einer CSV-Datei, mit Vorschau.",
         ["Drag a box to move it, drag the dot of its header onto another box to add a reference, drag the background to pan, wheel to zoom."] =
             "Kasten ziehen verschiebt ihn, den Punkt an seinem Kopf auf einen anderen Kasten ziehen legt eine Referenz an, Hintergrund ziehen verschiebt die Ansicht, das Mausrad zoomt.",
-        ["Select a box to edit its entity here. Add modules and entities in the list view."] = "Wählen Sie einen Kasten, um seine Entity hier zu bearbeiten. Module und Entities legen Sie in der Listenansicht an.",
+        ["Select a box to edit its entity here. Add modules and entities in the list view."] = "Wähl einen Kasten, um seine Entity hier zu bearbeiten. Module und Entities legst du in der Listenansicht an.",
         ["New reference"] = "Neue Referenz",
         ["{0} references {1}"] = "{0} referenziert {1}",
         ["Add reference"] = "Referenz anlegen",
         ["Tables, schemas or CSV columns become entities with their properties; foreign keys and references of the document become references. Nothing is added before you confirm the preview."] =
-            "Tabellen, Schemas oder CSV-Spalten werden zu Entities mit ihren Eigenschaften; Fremdschlüssel und Verweise des Dokuments werden zu Referenzen. Hinzugefügt wird erst, wenn Sie die Vorschau bestätigen.",
+            "Tabellen, Schemas oder CSV-Spalten werden zu Entities mit ihren Eigenschaften; Fremdschlüssel und Verweise des Dokuments werden zu Referenzen. Hinzugefügt wird erst, wenn du die Vorschau bestätigst.",
         ["Automatic"] = "Automatisch",
         ["Browse…"] = "Durchsuchen…",
         ["from the source"] = "aus der Quelle",
@@ -841,7 +841,7 @@ public static class German
         ["Add to the spec"] = "Zur Spezifikation hinzufügen",
         ["Skipped"] = "Ausgelassen",
         ["Choose the file to import"] = "Datei zum Importieren auswählen",
-        ["Enter a connection string, a file or an address."] = "Geben Sie eine Verbindungszeichenfolge, eine Datei oder eine Adresse ein.",
+        ["Enter a connection string, a file or an address."] = "Gib eine Verbindungszeichenfolge, eine Datei oder eine Adresse ein.",
         ["{0} entities for the module {1}, {2} things skipped"] = "{0} Entities für das Modul {1}, {2} Dinge ausgelassen",
     };
 }

diff --git a/tests/Coworkee.Studio.Tests/LocalizationTests.cs b/tests/Coworkee.Studio.Tests/LocalizationTests.cs
@@ -61,6 +61,10 @@ public sealed partial class LocalizationTests
     public void Texts_without_a_translation_stay_english() =>
         German.Texts.ContainsKey("Coworkee Studio").ShouldBeFalse();
 
+    [Fact]
+    public void German_texts_say_du() =>
+        German.Texts.Values.Where(t => Formal().IsMatch(t)).ShouldBeEmpty();
+
     private static string Here([CallerFilePath] string path = "") => path;
 
     // {l:L 'Some text'} and {l:L Word}
@@ -70,4 +74,8 @@ public sealed partial class LocalizationTests
     // L.Get("..."), L.Format("...") and the texts of the steps
     [GeneratedRegex(@"(?:L\.(?:Get|Format)\(|(?:TitleText|SubtitleText|PitchText) => )""(?<text>[^""]*)""")]
     private static partial Regex Code();
+
+    // Sie/Ihr inside a sentence is the formal address; at a sentence start it may mean "it"/"its"
+    [GeneratedRegex(@"(?<![.!?]) (?:Sie|Ihnen|Ihre?[mnrs]?)\b")]
+    private static partial Regex Formal();
 }
